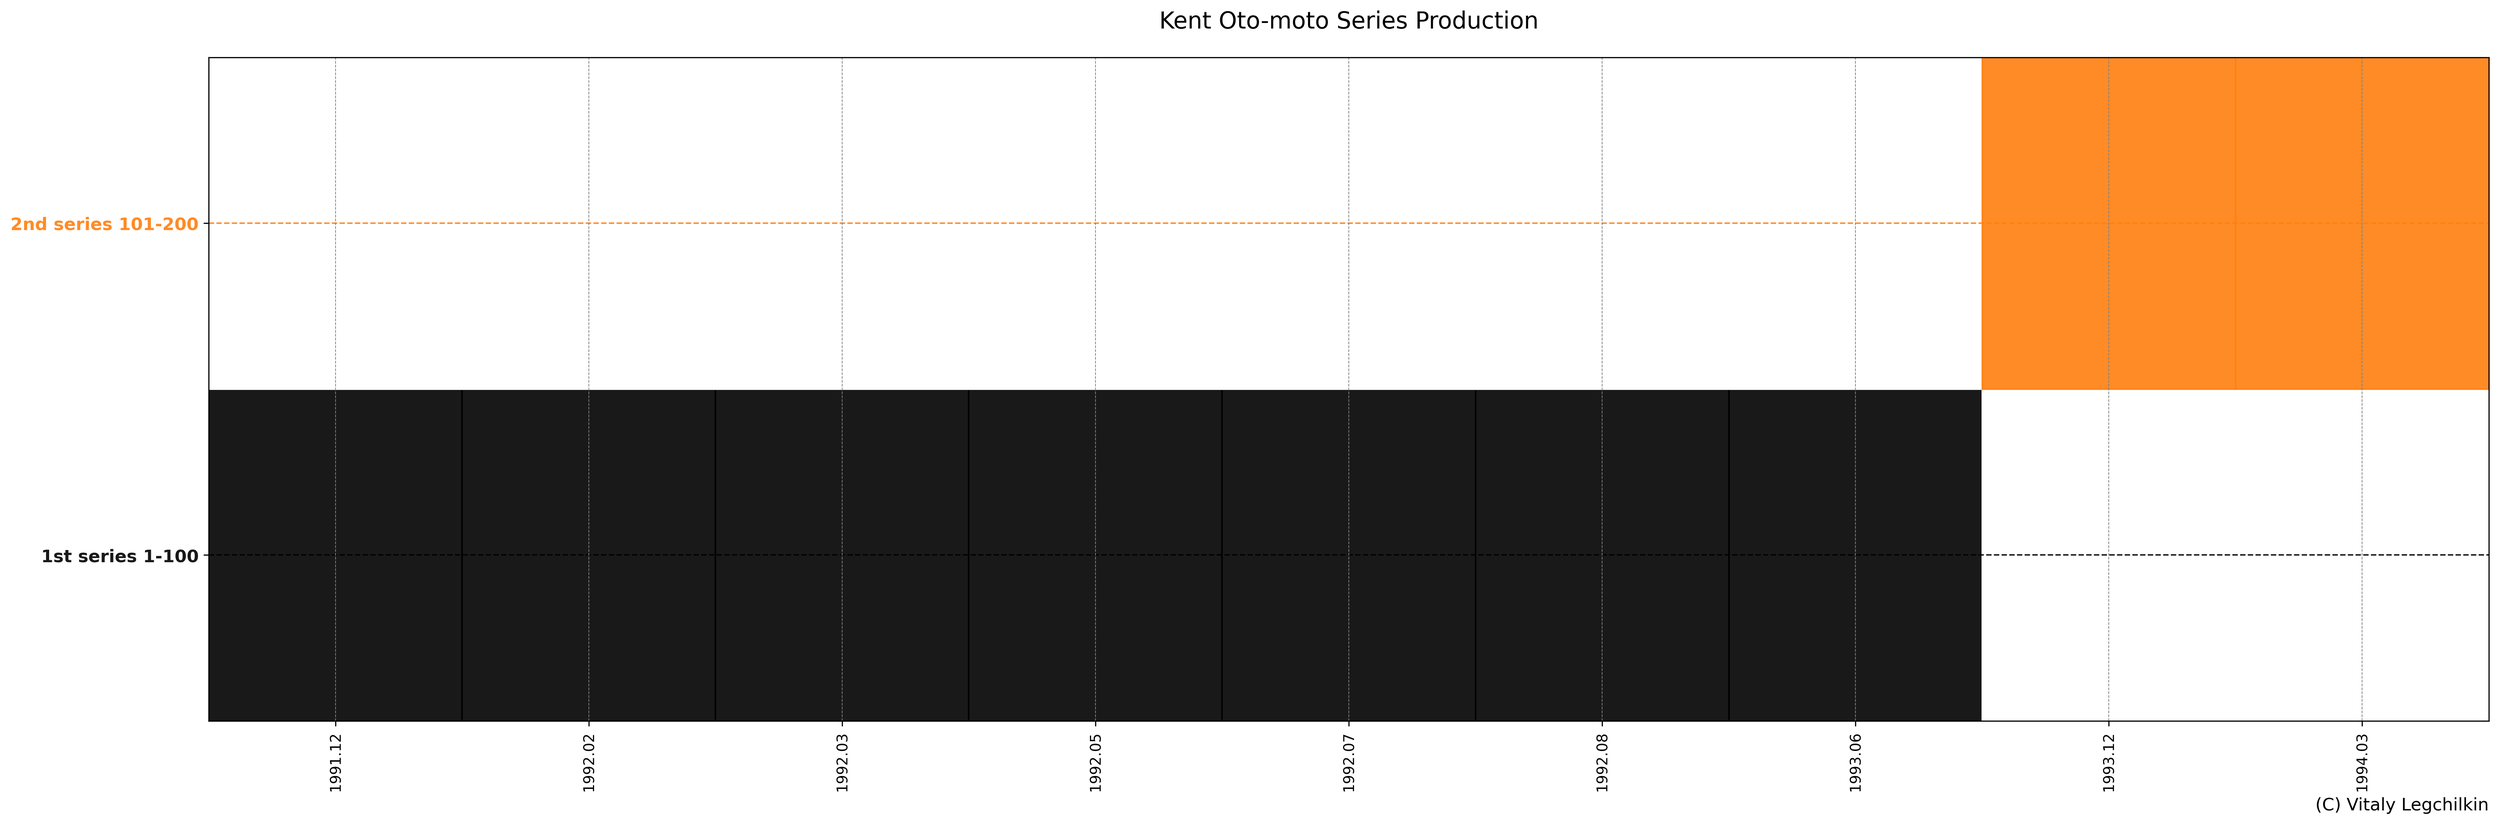
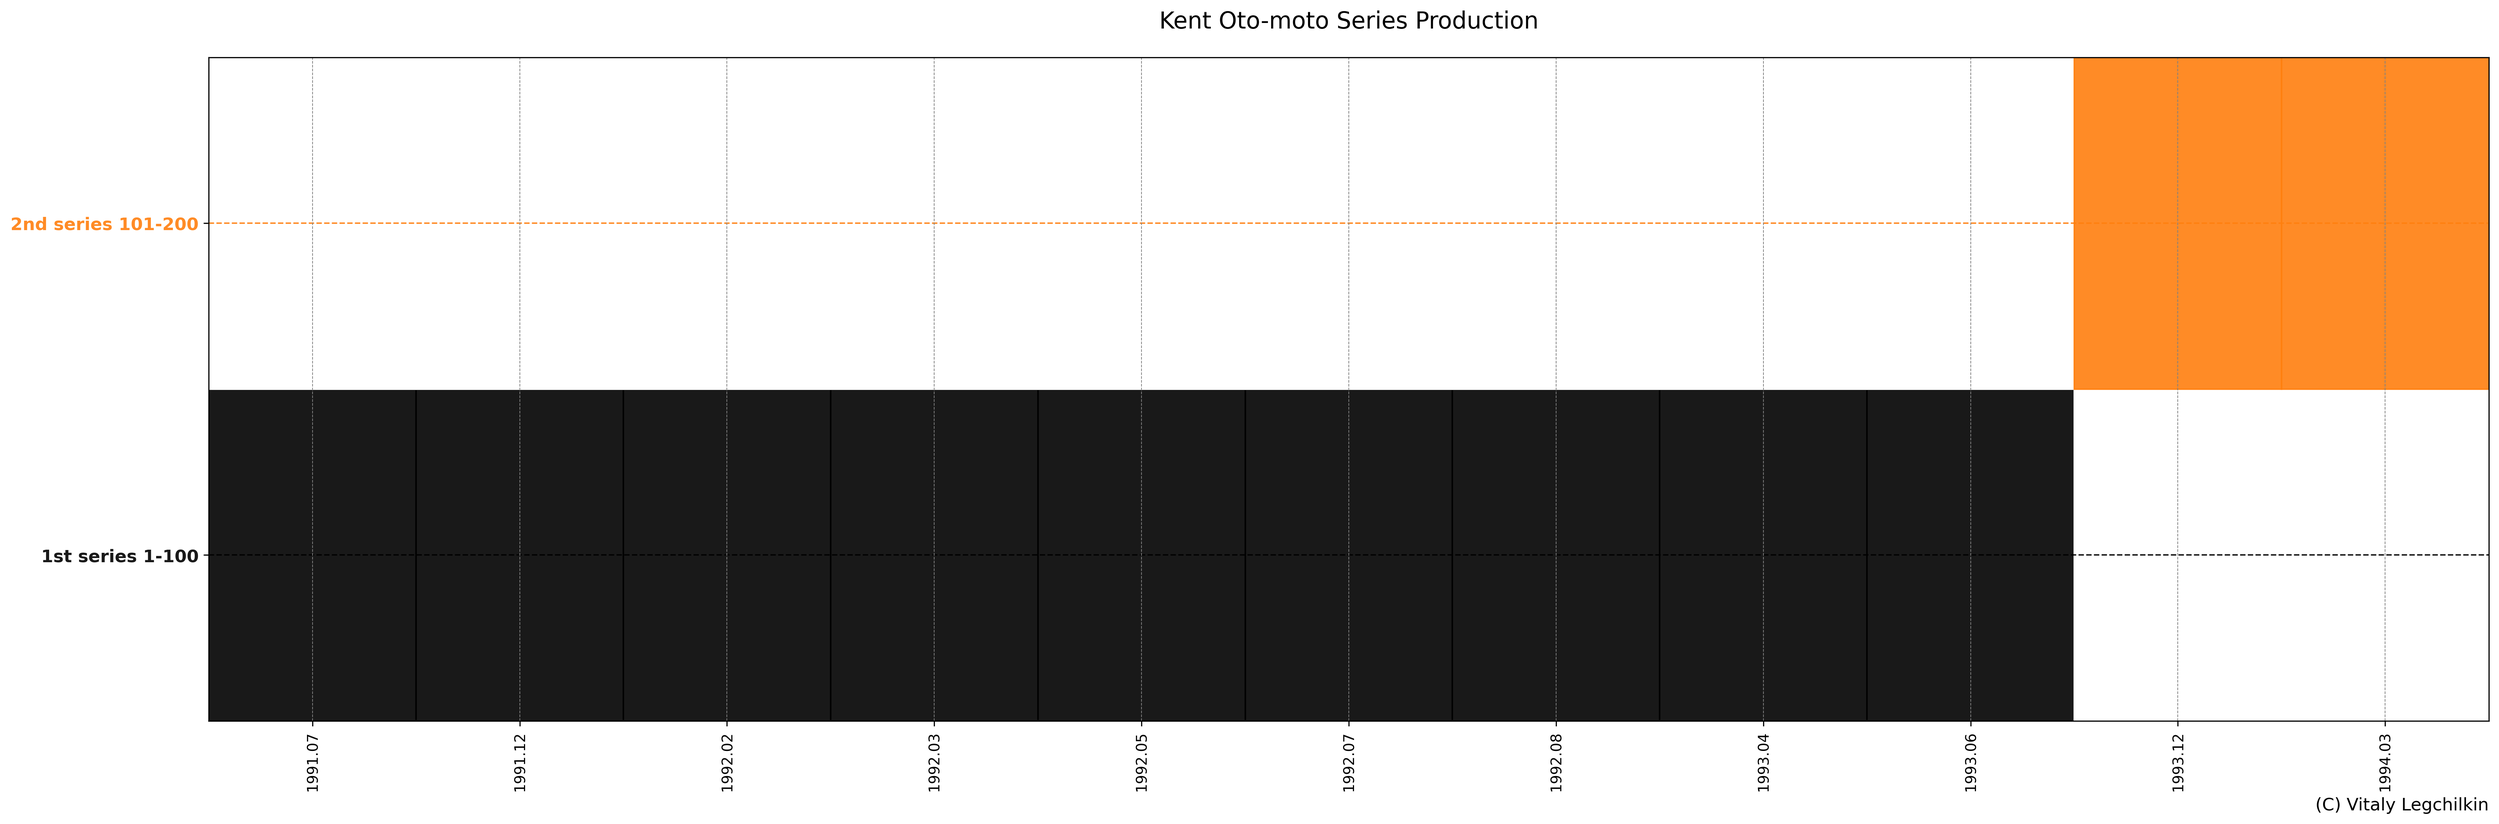
turbo black/super

Changed region(s): [[0.7808, 0.0617, 0.8433, 0.8944], [0.937, 0.9252, 0.9682, 0.9561]]

diff --git a/script/state.py b/script/state.py
@@ -286,7 +286,7 @@ if __name__ == "__main__":
     index_file = None
     series_releases = dict()
     totals = dict()
-    for root, dirs, files in os.walk("../gum_wrappers/kent/turbo"):
+    for root, dirs, files in os.walk("../gum_wrappers/kent/oto-moto"):
         if "index.md" in files:
             index_file = Path(root) / "index.md"
         if "thumbnails" in dirs:

diff --git a/script/thumbnails.py b/script/thumbnails.py
@@ -38,6 +38,6 @@ def build(root_dir: str):
 
 
 if __name__ == "__main__":
-    for root, dirs, files in os.walk(f"../gum_wrappers/kent/turbo/black/191-260"):
+    for root, dirs, files in os.walk(f"../gum_wrappers/kent/oto-moto/1-100"):
         if "thumbnails" in dirs:
             build(root)

diff --git a/gum_wrappers/kent/oto-moto/index.md b/gum_wrappers/kent/oto-moto/index.md
@@ -10,19 +10,24 @@ layout: default
 
 ## Statistic
 
-
-\[Covers: 29 of 45\]
-\[Wrappers: 173 of 199\]
+\[Covers: 42 of 55\]
+\[Wrappers: 173 of 200\]
 
 ## [1st series 1-100](1-100)
 
-Covers: 23 / 35
+Covers: 36 / 45
 Wrappers: 100 / 100
 
 <table style="width:100%">
     <tr style="vertical-align: top;">
         <td style="width:50%;text-align: center">
-            1991.12 [L-91] <br/>
+            1991.07 [G-91] <br/>
+            <a href='/collection/gum_wrappers/kent/turbo/missed_outer.png' target='_blank'><img src='/collection/gum_wrappers/kent/turbo/missed_outer.png' width='50' alt='1991.07 [G-91] .1'/></a>
+            <a href='/collection/gum_wrappers/kent/turbo/missed_outer.png' target='_blank'><img src='/collection/gum_wrappers/kent/turbo/missed_outer.png' width='50' alt='1991.07 [G-91] .2'/></a>
+            <a href='/collection/gum_wrappers/kent/turbo/missed_outer.png' target='_blank'><img src='/collection/gum_wrappers/kent/turbo/missed_outer.png' width='50' alt='1991.07 [G-91] .3'/></a>
+            <a href='/collection/gum_wrappers/kent/turbo/missed_outer.png' target='_blank'><img src='/collection/gum_wrappers/kent/turbo/missed_outer.png' width='50' alt='1991.07 [G-91] .4'/></a>
+            <a href='1-100/thumbnails/outer/1991_07{G-91}[5]/5.5.png' target='_blank'><img src='1-100/thumbnails/outer/1991_07{G-91}[5]/5.5.png' width='50' alt='1991.07 [G-91] .5'/></a>
+            <br/>1991.12 [L-91] <br/>
             <a href='1-100/thumbnails/outer/1991_12{L-91}[5]/1.5.png' target='_blank'><img src='1-100/thumbnails/outer/1991_12{L-91}[5]/1.5.png' width='50' alt='1991.12 [L-91] .1'/></a>
             <a href='1-100/thumbnails/outer/1991_12{L-91}[5]/2.5.png' target='_blank'><img src='1-100/thumbnails/outer/1991_12{L-91}[5]/2.5.png' width='50' alt='1991.12 [L-91] .2'/></a>
             <a href='1-100/thumbnails/outer/1991_12{L-91}[5]/3.5.png' target='_blank'><img src='1-100/thumbnails/outer/1991_12{L-91}[5]/3.5.png' width='50' alt='1991.12 [L-91] .3'/></a>
@@ -30,7 +35,7 @@ Wrappers: 100 / 100
             <a href='1-100/thumbnails/outer/1991_12{L-91}[5]/5.5.png' target='_blank'><img src='1-100/thumbnails/outer/1991_12{L-91}[5]/5.5.png' width='50' alt='1991.12 [L-91] .5'/></a>
             <br/>1992.02 [B-92] <br/>
             <a href='1-100/thumbnails/outer/1992_02{B-92}[5]/1.5.png' target='_blank'><img src='1-100/thumbnails/outer/1992_02{B-92}[5]/1.5.png' width='50' alt='1992.02 [B-92] .1'/></a>
-            <a href='/collection/gum_wrappers/kent/turbo/missed_outer.png' target='_blank'><img src='/collection/gum_wrappers/kent/turbo/missed_outer.png' width='50' alt='1992.02 [B-92] .2'/></a>
+            <a href='1-100/thumbnails/outer/1992_02{B-92}[5]/2.5.png' target='_blank'><img src='1-100/thumbnails/outer/1992_02{B-92}[5]/2.5.png' width='50' alt='1992.02 [B-92] .2'/></a>
             <a href='1-100/thumbnails/outer/1992_02{B-92}[5]/3.5.png' target='_blank'><img src='1-100/thumbnails/outer/1992_02{B-92}[5]/3.5.png' width='50' alt='1992.02 [B-92] .3'/></a>
             <a href='1-100/thumbnails/outer/1992_02{B-92}[5]/4.5.png' target='_blank'><img src='1-100/thumbnails/outer/1992_02{B-92}[5]/4.5.png' width='50' alt='1992.02 [B-92] .4'/></a>
             <a href='1-100/thumbnails/outer/1992_02{B-92}[5]/5.5.png' target='_blank'><img src='1-100/thumbnails/outer/1992_02{B-92}[5]/5.5.png' width='50' alt='1992.02 [B-92] .5'/></a>
@@ -38,7 +43,7 @@ Wrappers: 100 / 100
             <a href='1-100/thumbnails/outer/1992_03{C-92}[5]/1.5.png' target='_blank'><img src='1-100/thumbnails/outer/1992_03{C-92}[5]/1.5.png' width='50' alt='1992.03 [C-92] .1'/></a>
             <a href='1-100/thumbnails/outer/1992_03{C-92}[5]/2.5.png' target='_blank'><img src='1-100/thumbnails/outer/1992_03{C-92}[5]/2.5.png' width='50' alt='1992.03 [C-92] .2'/></a>
             <a href='1-100/thumbnails/outer/1992_03{C-92}[5]/3.5.png' target='_blank'><img src='1-100/thumbnails/outer/1992_03{C-92}[5]/3.5.png' width='50' alt='1992.03 [C-92] .3'/></a>
-            <a href='/collection/gum_wrappers/kent/turbo/missed_outer.png' target='_blank'><img src='/collection/gum_wrappers/kent/turbo/missed_outer.png' width='50' alt='1992.03 [C-92] .4'/></a>
+            <a href='1-100/thumbnails/outer/1992_03{C-92}[5]/4.5.png' target='_blank'><img src='1-100/thumbnails/outer/1992_03{C-92}[5]/4.5.png' width='50' alt='1992.03 [C-92] .4'/></a>
             <a href='1-100/thumbnails/outer/1992_03{C-92}[5]/5.5.png' target='_blank'><img src='1-100/thumbnails/outer/1992_03{C-92}[5]/5.5.png' width='50' alt='1992.03 [C-92] .5'/></a>
             <br/>1992.05 [E-92] <br/>
             <a href='1-100/thumbnails/outer/1992_05{E-92}[5]/1.5.png' target='_blank'><img src='1-100/thumbnails/outer/1992_05{E-92}[5]/1.5.png' width='50' alt='1992.05 [E-92] .1'/></a>
@@ -47,17 +52,23 @@ Wrappers: 100 / 100
             <a href='1-100/thumbnails/outer/1992_05{E-92}[5]/4.5.png' target='_blank'><img src='1-100/thumbnails/outer/1992_05{E-92}[5]/4.5.png' width='50' alt='1992.05 [E-92] .4'/></a>
             <a href='1-100/thumbnails/outer/1992_05{E-92}[5]/5.5.png' target='_blank'><img src='1-100/thumbnails/outer/1992_05{E-92}[5]/5.5.png' width='50' alt='1992.05 [E-92] .5'/></a>
             <br/>1992.07 [G-92] <br/>
-            <a href='/collection/gum_wrappers/kent/turbo/missed_outer.png' target='_blank'><img src='/collection/gum_wrappers/kent/turbo/missed_outer.png' width='50' alt='1992.07 [G-92] .1'/></a>
+            <a href='1-100/thumbnails/outer/1992_07{G-92}[5]/1.5.png' target='_blank'><img src='1-100/thumbnails/outer/1992_07{G-92}[5]/1.5.png' width='50' alt='1992.07 [G-92] .1'/></a>
             <a href='1-100/thumbnails/outer/1992_07{G-92}[5]/2.4.png' target='_blank'><img src='1-100/thumbnails/outer/1992_07{G-92}[5]/2.4.png' width='50' alt='1992.07 [G-92] .2'/></a>
-            <a href='/collection/gum_wrappers/kent/turbo/missed_outer.png' target='_blank'><img src='/collection/gum_wrappers/kent/turbo/missed_outer.png' width='50' alt='1992.07 [G-92] .3'/></a>
+            <a href='1-100/thumbnails/outer/1992_07{G-92}[5]/3.5.png' target='_blank'><img src='1-100/thumbnails/outer/1992_07{G-92}[5]/3.5.png' width='50' alt='1992.07 [G-92] .3'/></a>
             <a href='1-100/thumbnails/outer/1992_07{G-92}[5]/4.4.png' target='_blank'><img src='1-100/thumbnails/outer/1992_07{G-92}[5]/4.4.png' width='50' alt='1992.07 [G-92] .4'/></a>
-            <a href='/collection/gum_wrappers/kent/turbo/missed_outer.png' target='_blank'><img src='/collection/gum_wrappers/kent/turbo/missed_outer.png' width='50' alt='1992.07 [G-92] .5'/></a>
+            <a href='1-100/thumbnails/outer/1992_07{G-92}[5]/5.5.png' target='_blank'><img src='1-100/thumbnails/outer/1992_07{G-92}[5]/5.5.png' width='50' alt='1992.07 [G-92] .5'/></a>
             <br/>1992.08 [H-92] <br/>
-            <a href='/collection/gum_wrappers/kent/turbo/missed_outer.png' target='_blank'><img src='/collection/gum_wrappers/kent/turbo/missed_outer.png' width='50' alt='1992.08 [H-92] .1'/></a>
-            <a href='/collection/gum_wrappers/kent/turbo/missed_outer.png' target='_blank'><img src='/collection/gum_wrappers/kent/turbo/missed_outer.png' width='50' alt='1992.08 [H-92] .2'/></a>
-            <a href='/collection/gum_wrappers/kent/turbo/missed_outer.png' target='_blank'><img src='/collection/gum_wrappers/kent/turbo/missed_outer.png' width='50' alt='1992.08 [H-92] .3'/></a>
+            <a href='1-100/thumbnails/outer/1992_08{H-92}[5]/1.5.png' target='_blank'><img src='1-100/thumbnails/outer/1992_08{H-92}[5]/1.5.png' width='50' alt='1992.08 [H-92] .1'/></a>
+            <a href='1-100/thumbnails/outer/1992_08{H-92}[5]/2.5.png' target='_blank'><img src='1-100/thumbnails/outer/1992_08{H-92}[5]/2.5.png' width='50' alt='1992.08 [H-92] .2'/></a>
+            <a href='1-100/thumbnails/outer/1992_08{H-92}[5]/3.5.png' target='_blank'><img src='1-100/thumbnails/outer/1992_08{H-92}[5]/3.5.png' width='50' alt='1992.08 [H-92] .3'/></a>
             <a href='/collection/gum_wrappers/kent/turbo/missed_outer.png' target='_blank'><img src='/collection/gum_wrappers/kent/turbo/missed_outer.png' width='50' alt='1992.08 [H-92] .4'/></a>
             <a href='1-100/thumbnails/outer/1992_08{H-92}[5]/5.3.png' target='_blank'><img src='1-100/thumbnails/outer/1992_08{H-92}[5]/5.3.png' width='50' alt='1992.08 [H-92] .5'/></a>
+            <br/>1993.04 [G-93] <br/>
+            <a href='1-100/thumbnails/outer/1993_04{G-93}[5]/1.5.png' target='_blank'><img src='1-100/thumbnails/outer/1993_04{G-93}[5]/1.5.png' width='50' alt='1993.04 [G-93] .1'/></a>
+            <a href='/collection/gum_wrappers/kent/turbo/missed_outer.png' target='_blank'><img src='/collection/gum_wrappers/kent/turbo/missed_outer.png' width='50' alt='1993.04 [G-93] .2'/></a>
+            <a href='1-100/thumbnails/outer/1993_04{G-93}[5]/3.5.png' target='_blank'><img src='1-100/thumbnails/outer/1993_04{G-93}[5]/3.5.png' width='50' alt='1993.04 [G-93] .3'/></a>
+            <a href='1-100/thumbnails/outer/1993_04{G-93}[5]/4.5.png' target='_blank'><img src='1-100/thumbnails/outer/1993_04{G-93}[5]/4.5.png' width='50' alt='1993.04 [G-93] .4'/></a>
+            <a href='1-100/thumbnails/outer/1993_04{G-93}[5]/5.5.png' target='_blank'><img src='1-100/thumbnails/outer/1993_04{G-93}[5]/5.5.png' width='50' alt='1993.04 [G-93] .5'/></a>
             <br/>1993.06 [F-93] <br/>
             <a href='1-100/thumbnails/outer/1993_06{F-93}[5]/1.5.png' target='_blank'><img src='1-100/thumbnails/outer/1993_06{F-93}[5]/1.5.png' width='50' alt='1993.06 [F-93] .1'/></a>
             <a href='/collection/gum_wrappers/kent/turbo/missed_outer.png' target='_blank'><img src='/collection/gum_wrappers/kent/turbo/missed_outer.png' width='50' alt='1993.06 [F-93] .2'/></a>
@@ -175,7 +186,7 @@ Wrappers: 100 / 100
 ## [2nd series 101-200](101-200)
 
 Covers: 6 / 10
-Wrappers: 73 / 99
+Wrappers: 73 / 100
 
 <table style="width:100%">
     <tr style="vertical-align: top;">
@@ -195,7 +206,7 @@ Wrappers: 73 / 99
             <br/>
         </td>
         <td>
-            (73/99)<br/>
+            (73/100)<br/>
             <a class='enough' href='101-200/thumbnails/inner/101.4.png' title='' target='_blank'>101</a>
             <a class='perfect' href='101-200/thumbnails/inner/102.5.png' title='' target='_blank'>102</a>
             <a class='missed' href='missed.png' title='' target='_blank'>103</a>
@@ -295,6 +306,7 @@ Wrappers: 73 / 99
             <a class='perfect' href='101-200/thumbnails/inner/197.5.png' title='' target='_blank'>197</a>
             <a class='missed' href='missed.png' title='' target='_blank'>198</a>
             <a class='perfect' href='101-200/thumbnails/inner/199.5.png' title='' target='_blank'>199</a>
+            <a class='missed' href='missed.png' title='' target='_blank'>200</a>
         </td>
     </tr>
 </table>

diff --git a/gum_wrappers/kent/oto-moto/1-100/README.md b/gum_wrappers/kent/oto-moto/1-100/README.md
@@ -6,12 +6,14 @@
 
 |    Release     |                                                            1                                                             |                                                            2                                                             |                                                            3                                                             |                                                            4                                                             |                                                            5                                                             |
 |:--------------:|:------------------------------------------------------------------------------------------------------------------------:|:------------------------------------------------------------------------------------------------------------------------:|:------------------------------------------------------------------------------------------------------------------------:|:------------------------------------------------------------------------------------------------------------------------:|:------------------------------------------------------------------------------------------------------------------------:|
+| 1991.07 [G-91] | [<img src='/collection/gum_wrappers/kent/turbo/missed_outer.png'>](/collection/gum_wrappers/kent/turbo/missed_outer.png) | [<img src='/collection/gum_wrappers/kent/turbo/missed_outer.png'>](/collection/gum_wrappers/kent/turbo/missed_outer.png) | [<img src='/collection/gum_wrappers/kent/turbo/missed_outer.png'>](/collection/gum_wrappers/kent/turbo/missed_outer.png) | [<img src='/collection/gum_wrappers/kent/turbo/missed_outer.png'>](/collection/gum_wrappers/kent/turbo/missed_outer.png) |            [<img src='thumbnails/outer/1991_07{G-91}[5]/5.5.png'>](thumbnails/outer/1991_07{G-91}[5]/5.5.png)            |
 | 1991.12 [L-91] |            [<img src='thumbnails/outer/1991_12{L-91}[5]/1.5.png'>](thumbnails/outer/1991_12{L-91}[5]/1.5.png)            |            [<img src='thumbnails/outer/1991_12{L-91}[5]/2.5.png'>](thumbnails/outer/1991_12{L-91}[5]/2.5.png)            |            [<img src='thumbnails/outer/1991_12{L-91}[5]/3.5.png'>](thumbnails/outer/1991_12{L-91}[5]/3.5.png)            | [<img src='/collection/gum_wrappers/kent/turbo/missed_outer.png'>](/collection/gum_wrappers/kent/turbo/missed_outer.png) |            [<img src='thumbnails/outer/1991_12{L-91}[5]/5.5.png'>](thumbnails/outer/1991_12{L-91}[5]/5.5.png)            |
-| 1992.02 [B-92] |            [<img src='thumbnails/outer/1992_02{B-92}[5]/1.5.png'>](thumbnails/outer/1992_02{B-92}[5]/1.5.png)            | [<img src='/collection/gum_wrappers/kent/turbo/missed_outer.png'>](/collection/gum_wrappers/kent/turbo/missed_outer.png) |            [<img src='thumbnails/outer/1992_02{B-92}[5]/3.5.png'>](thumbnails/outer/1992_02{B-92}[5]/3.5.png)            |            [<img src='thumbnails/outer/1992_02{B-92}[5]/4.5.png'>](thumbnails/outer/1992_02{B-92}[5]/4.5.png)            |            [<img src='thumbnails/outer/1992_02{B-92}[5]/5.5.png'>](thumbnails/outer/1992_02{B-92}[5]/5.5.png)            |
-| 1992.03 [C-92] |            [<img src='thumbnails/outer/1992_03{C-92}[5]/1.5.png'>](thumbnails/outer/1992_03{C-92}[5]/1.5.png)            |            [<img src='thumbnails/outer/1992_03{C-92}[5]/2.5.png'>](thumbnails/outer/1992_03{C-92}[5]/2.5.png)            |            [<img src='thumbnails/outer/1992_03{C-92}[5]/3.5.png'>](thumbnails/outer/1992_03{C-92}[5]/3.5.png)            | [<img src='/collection/gum_wrappers/kent/turbo/missed_outer.png'>](/collection/gum_wrappers/kent/turbo/missed_outer.png) |            [<img src='thumbnails/outer/1992_03{C-92}[5]/5.5.png'>](thumbnails/outer/1992_03{C-92}[5]/5.5.png)            |
+| 1992.02 [B-92] |            [<img src='thumbnails/outer/1992_02{B-92}[5]/1.5.png'>](thumbnails/outer/1992_02{B-92}[5]/1.5.png)            |            [<img src='thumbnails/outer/1992_02{B-92}[5]/2.5.png'>](thumbnails/outer/1992_02{B-92}[5]/2.5.png)            |            [<img src='thumbnails/outer/1992_02{B-92}[5]/3.5.png'>](thumbnails/outer/1992_02{B-92}[5]/3.5.png)            |            [<img src='thumbnails/outer/1992_02{B-92}[5]/4.5.png'>](thumbnails/outer/1992_02{B-92}[5]/4.5.png)            |            [<img src='thumbnails/outer/1992_02{B-92}[5]/5.5.png'>](thumbnails/outer/1992_02{B-92}[5]/5.5.png)            |
+| 1992.03 [C-92] |            [<img src='thumbnails/outer/1992_03{C-92}[5]/1.5.png'>](thumbnails/outer/1992_03{C-92}[5]/1.5.png)            |            [<img src='thumbnails/outer/1992_03{C-92}[5]/2.5.png'>](thumbnails/outer/1992_03{C-92}[5]/2.5.png)            |            [<img src='thumbnails/outer/1992_03{C-92}[5]/3.5.png'>](thumbnails/outer/1992_03{C-92}[5]/3.5.png)            |            [<img src='thumbnails/outer/1992_03{C-92}[5]/4.5.png'>](thumbnails/outer/1992_03{C-92}[5]/4.5.png)            |            [<img src='thumbnails/outer/1992_03{C-92}[5]/5.5.png'>](thumbnails/outer/1992_03{C-92}[5]/5.5.png)            |
 | 1992.05 [E-92] |            [<img src='thumbnails/outer/1992_05{E-92}[5]/1.5.png'>](thumbnails/outer/1992_05{E-92}[5]/1.5.png)            |            [<img src='thumbnails/outer/1992_05{E-92}[5]/2.5.png'>](thumbnails/outer/1992_05{E-92}[5]/2.5.png)            |            [<img src='thumbnails/outer/1992_05{E-92}[5]/3.5.png'>](thumbnails/outer/1992_05{E-92}[5]/3.5.png)            |            [<img src='thumbnails/outer/1992_05{E-92}[5]/4.5.png'>](thumbnails/outer/1992_05{E-92}[5]/4.5.png)            |            [<img src='thumbnails/outer/1992_05{E-92}[5]/5.5.png'>](thumbnails/outer/1992_05{E-92}[5]/5.5.png)            |
-| 1992.07 [G-92] | [<img src='/collection/gum_wrappers/kent/turbo/missed_outer.png'>](/collection/gum_wrappers/kent/turbo/missed_outer.png) |            [<img src='thumbnails/outer/1992_07{G-92}[5]/2.4.png'>](thumbnails/outer/1992_07{G-92}[5]/2.4.png)            | [<img src='/collection/gum_wrappers/kent/turbo/missed_outer.png'>](/collection/gum_wrappers/kent/turbo/missed_outer.png) |            [<img src='thumbnails/outer/1992_07{G-92}[5]/4.4.png'>](thumbnails/outer/1992_07{G-92}[5]/4.4.png)            | [<img src='/collection/gum_wrappers/kent/turbo/missed_outer.png'>](/collection/gum_wrappers/kent/turbo/missed_outer.png) |
-| 1992.08 [H-92] | [<img src='/collection/gum_wrappers/kent/turbo/missed_outer.png'>](/collection/gum_wrappers/kent/turbo/missed_outer.png) | [<img src='/collection/gum_wrappers/kent/turbo/missed_outer.png'>](/collection/gum_wrappers/kent/turbo/missed_outer.png) | [<img src='/collection/gum_wrappers/kent/turbo/missed_outer.png'>](/collection/gum_wrappers/kent/turbo/missed_outer.png) | [<img src='/collection/gum_wrappers/kent/turbo/missed_outer.png'>](/collection/gum_wrappers/kent/turbo/missed_outer.png) |            [<img src='thumbnails/outer/1992_08{H-92}[5]/5.3.png'>](thumbnails/outer/1992_08{H-92}[5]/5.3.png)            |
+| 1992.07 [G-92] |            [<img src='thumbnails/outer/1992_07{G-92}[5]/1.5.png'>](thumbnails/outer/1992_07{G-92}[5]/1.5.png)            |            [<img src='thumbnails/outer/1992_07{G-92}[5]/2.4.png'>](thumbnails/outer/1992_07{G-92}[5]/2.4.png)            |            [<img src='thumbnails/outer/1992_07{G-92}[5]/3.5.png'>](thumbnails/outer/1992_07{G-92}[5]/3.5.png)            |            [<img src='thumbnails/outer/1992_07{G-92}[5]/4.4.png'>](thumbnails/outer/1992_07{G-92}[5]/4.4.png)            |            [<img src='thumbnails/outer/1992_07{G-92}[5]/5.5.png'>](thumbnails/outer/1992_07{G-92}[5]/5.5.png)            |
+| 1992.08 [H-92] |            [<img src='thumbnails/outer/1992_08{H-92}[5]/1.5.png'>](thumbnails/outer/1992_08{H-92}[5]/1.5.png)            |            [<img src='thumbnails/outer/1992_08{H-92}[5]/2.5.png'>](thumbnails/outer/1992_08{H-92}[5]/2.5.png)            |            [<img src='thumbnails/outer/1992_08{H-92}[5]/3.5.png'>](thumbnails/outer/1992_08{H-92}[5]/3.5.png)            | [<img src='/collection/gum_wrappers/kent/turbo/missed_outer.png'>](/collection/gum_wrappers/kent/turbo/missed_outer.png) |            [<img src='thumbnails/outer/1992_08{H-92}[5]/5.3.png'>](thumbnails/outer/1992_08{H-92}[5]/5.3.png)            |
+| 1993.04 [G-93] |            [<img src='thumbnails/outer/1993_04{G-93}[5]/1.5.png'>](thumbnails/outer/1993_04{G-93}[5]/1.5.png)            | [<img src='/collection/gum_wrappers/kent/turbo/missed_outer.png'>](/collection/gum_wrappers/kent/turbo/missed_outer.png) |            [<img src='thumbnails/outer/1993_04{G-93}[5]/3.5.png'>](thumbnails/outer/1993_04{G-93}[5]/3.5.png)            |            [<img src='thumbnails/outer/1993_04{G-93}[5]/4.5.png'>](thumbnails/outer/1993_04{G-93}[5]/4.5.png)            |            [<img src='thumbnails/outer/1993_04{G-93}[5]/5.5.png'>](thumbnails/outer/1993_04{G-93}[5]/5.5.png)            |
 | 1993.06 [F-93] |            [<img src='thumbnails/outer/1993_06{F-93}[5]/1.5.png'>](thumbnails/outer/1993_06{F-93}[5]/1.5.png)            | [<img src='/collection/gum_wrappers/kent/turbo/missed_outer.png'>](/collection/gum_wrappers/kent/turbo/missed_outer.png) |            [<img src='thumbnails/outer/1993_06{F-93}[5]/3.5.png'>](thumbnails/outer/1993_06{F-93}[5]/3.5.png)            |            [<img src='thumbnails/outer/1993_06{F-93}[5]/4.5.png'>](thumbnails/outer/1993_06{F-93}[5]/4.5.png)            | [<img src='/collection/gum_wrappers/kent/turbo/missed_outer.png'>](/collection/gum_wrappers/kent/turbo/missed_outer.png) |
 
 <span style="display: inline-block;">

diff --git a/gum_wrappers/kent/oto-moto/101-200/README.md b/gum_wrappers/kent/oto-moto/101-200/README.md
@@ -306,4 +306,7 @@
 <span style="display: inline-block;">
 	<a href='thumbnails/inner/199.5.png' title=''><img src='thumbnails/inner/199.5.png' alt=''></a>
 </span>
+<span style="display: inline-block;">
+	<a href='/collection/gum_wrappers/kent/turbo/missed.png' title=''><img src='/collection/gum_wrappers/kent/turbo/missed.png' alt=''></a>
+</span>
 
